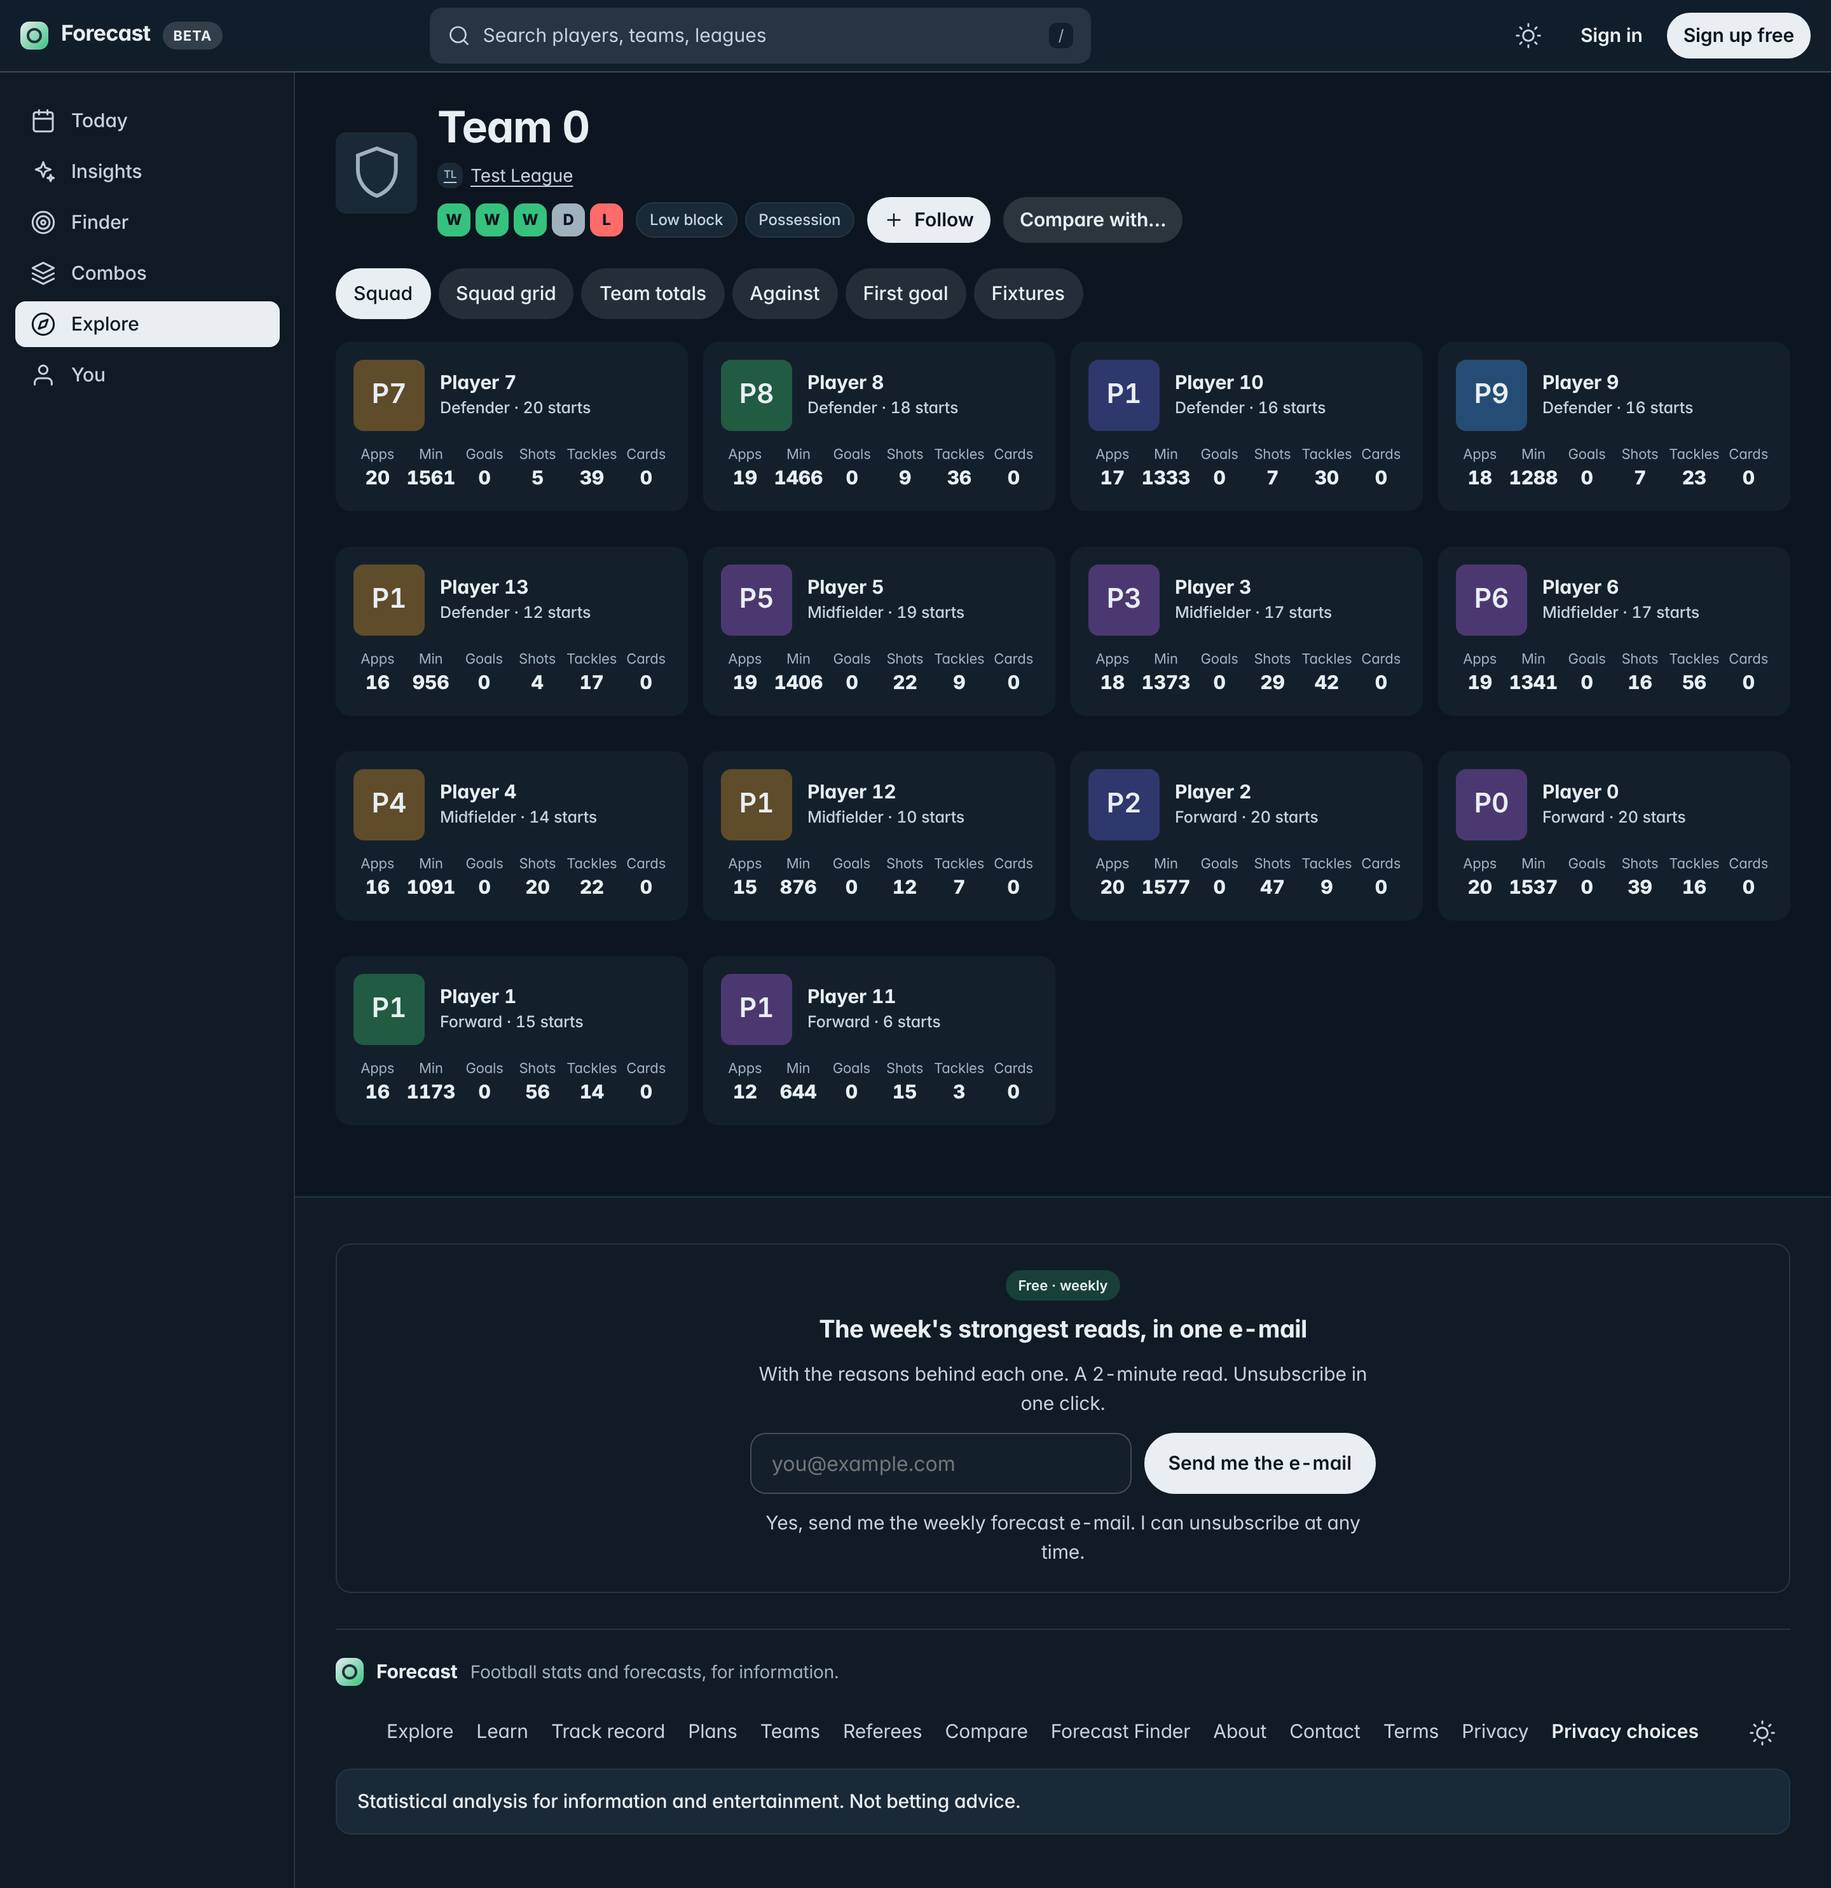
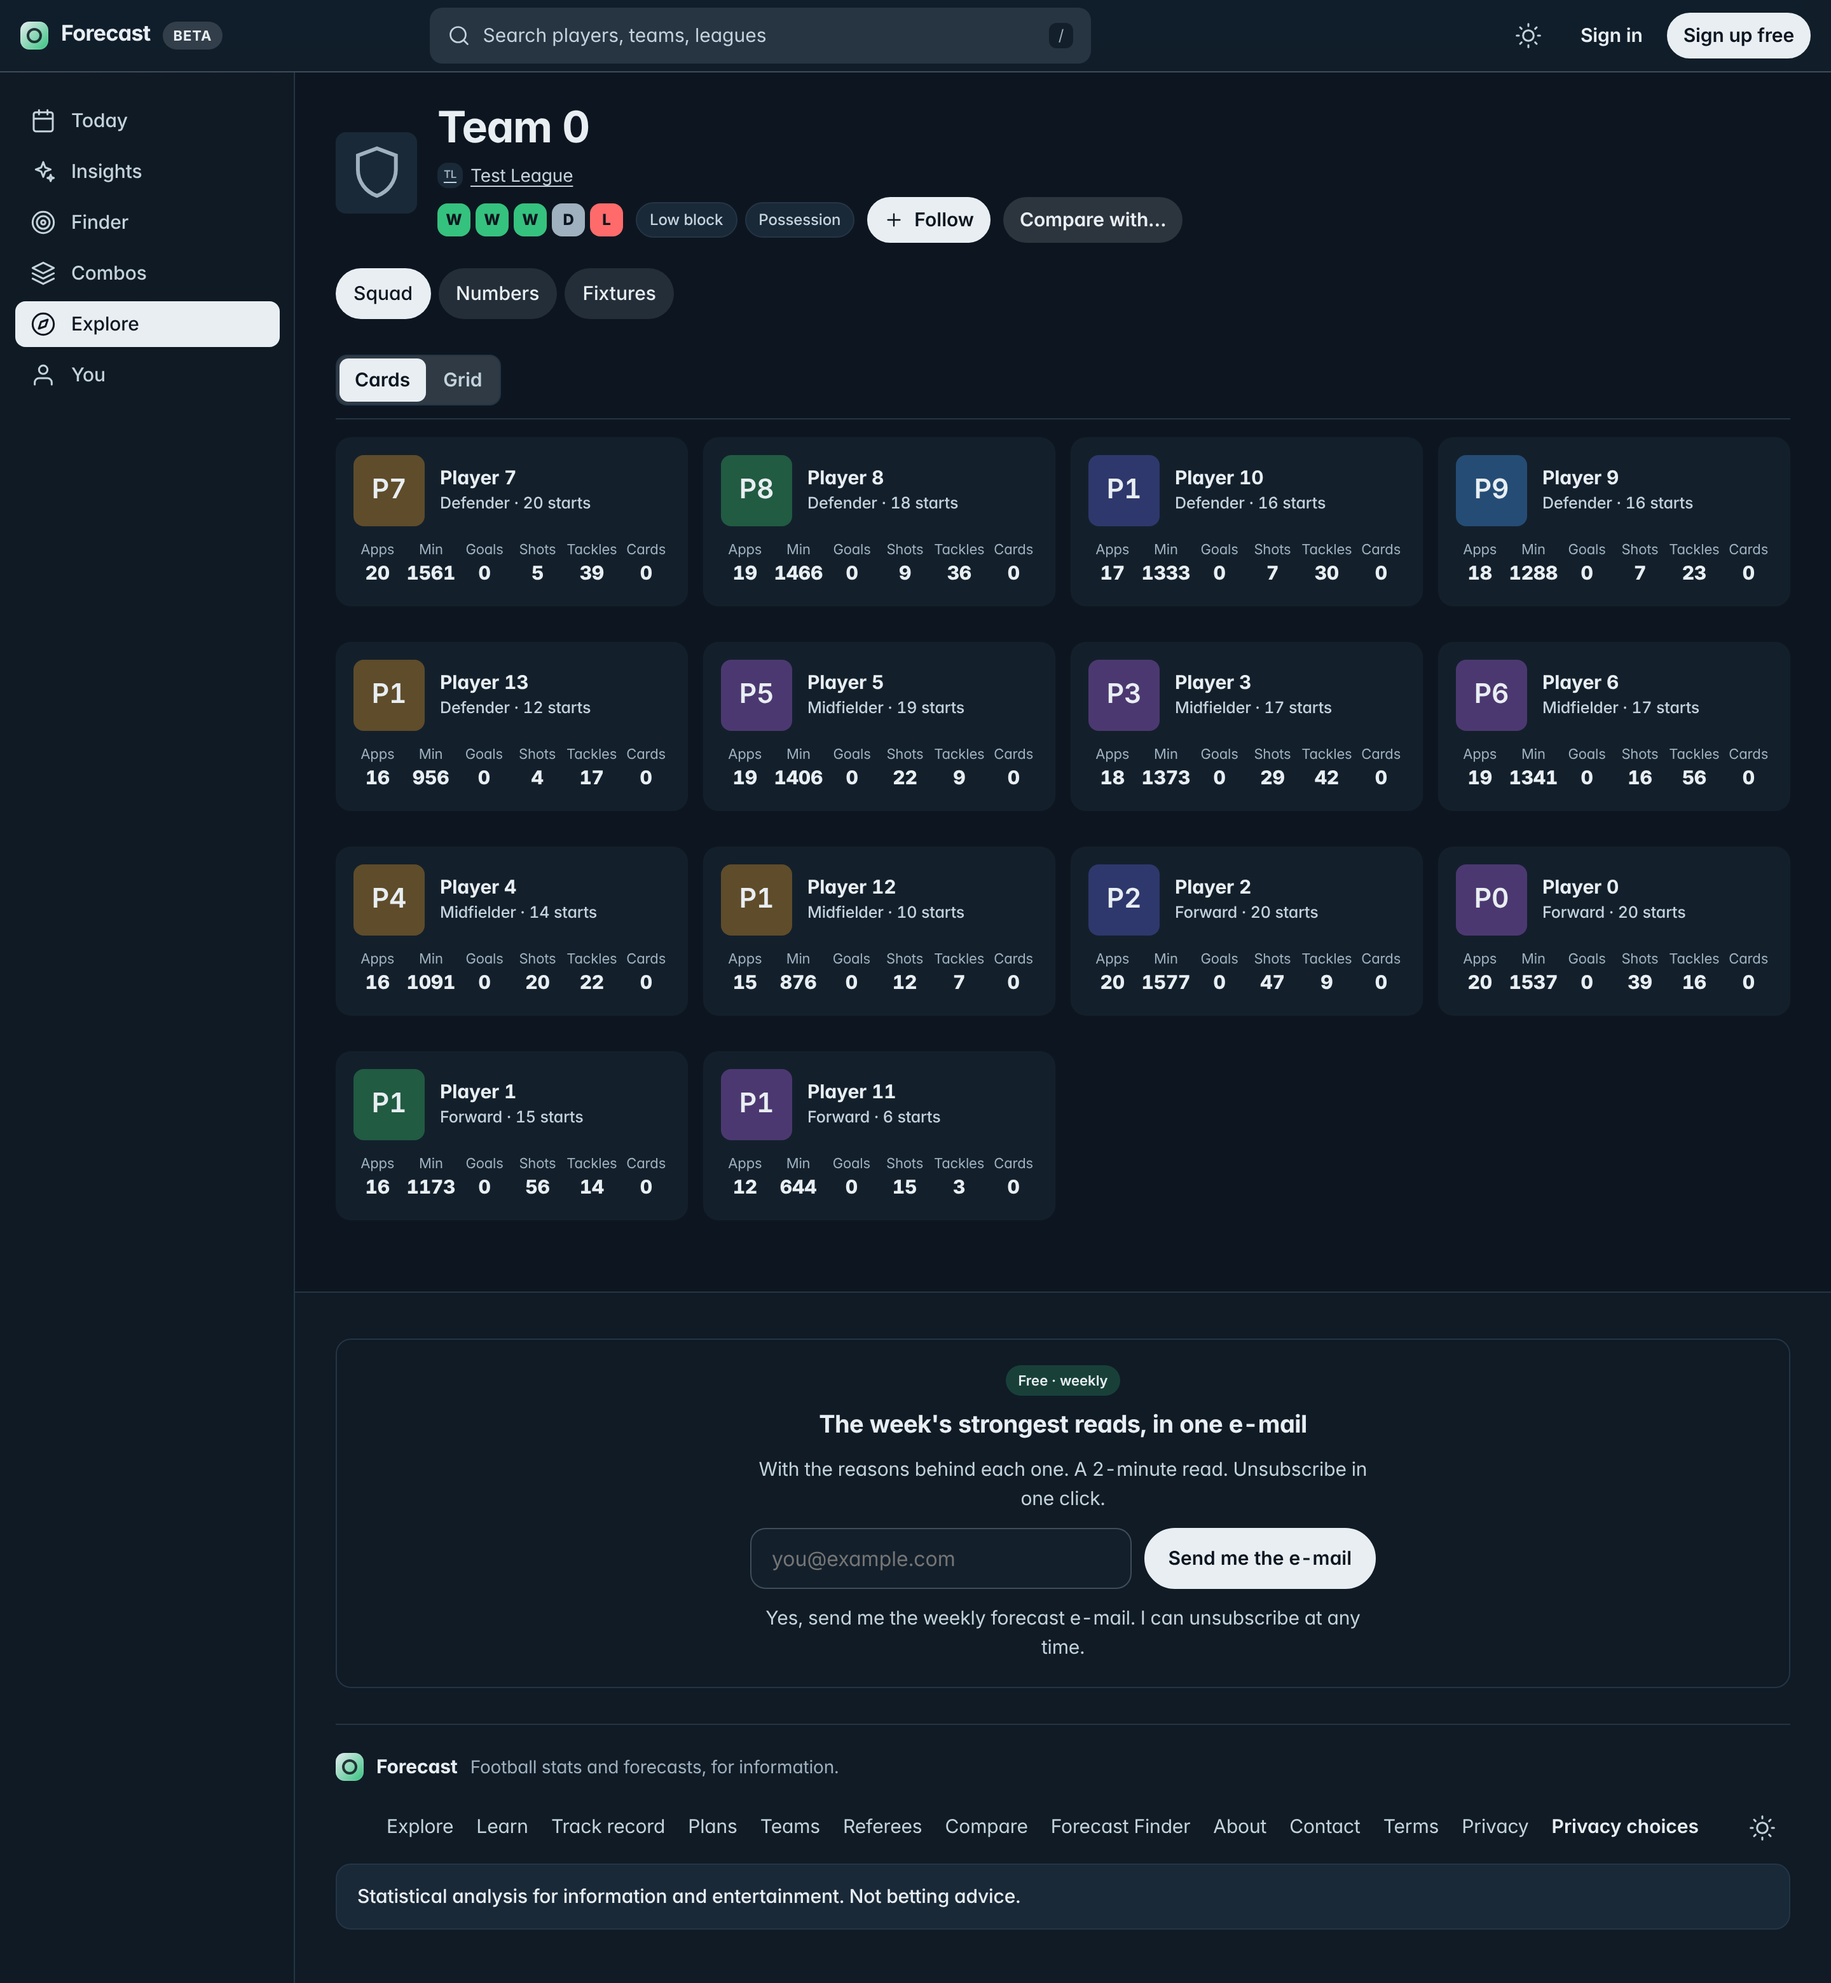
v2: the Team page's six tabs become three
Questioned rather than restyled. Reading what each tab actually rendered:

"Squad" and "Squad grid" were two renderings of the same squad -- a view toggle wearing two tabs.
They are one tab with a Cards/Grid toggle.

"Team totals", "Against" and "First goal" all answer one question: what this club's numbers look
like. Totals already shows for and against per match, so "Against" is not its counterpart -- it is
a different cut, what opponents manage by position -- and "First goal" is a single chart that never
justified a top-level tab. They become one "Numbers" tab read top to bottom: match by match, then
by the position it concedes to, then who tends to score first.

Six tabs scrolled sideways on a phone and offered a reader six choices where there were three
questions. Three do not and do.

Claude-Session: https://claude.ai/code/session_016hRGeSD52r5PfemmuLdhgZ

diff --git a/frontend/src/pages/Team.jsx b/frontend/src/pages/Team.jsx
@@ -116,6 +116,7 @@ export default function Team() {
   const { id } = useParams();
   const q = useApi(`/teams/${id}`);
   const [tab, setTab] = useState("squad");
+  const [squadView, setSquadView] = useState("cards");
   useTitle(q.data?.team?.name || "Team");
   if (q.loading && !q.data) return <Loading rows={5} />;
   if (q.error) return <ErrorBox error={q.error} onRetry={q.reload} />;
@@ -130,12 +131,28 @@ export default function Team() {
           <div className="phead-row"><FormPills form={d.form} /><div className="chips">{(d.style?.tactics || []).map((t) => <TacticChip key={t} t={t} />)}</div><FollowButton kind="team" refId={d.team.id} name={d.team.name} /><Link to={`/compare?a=${d.team.id}`} className="btn btn--secondary btn--sm" data-testid="team-compare">Compare with…</Link></div>
         </div>
       </header>
-      <Tabs value={tab} onChange={setTab} testid="team-tabs" tabs={[{ id: "squad", label: "Squad" }, { id: "grid", label: "Squad grid" }, { id: "totals", label: "Team totals" }, { id: "against", label: "Against" }, { id: "first", label: "First goal" }, { id: "fixtures", label: "Fixtures" }]} />
-      {tab === "squad" && <SquadCards id={id} />}
-      {tab === "grid" && <Grid id={id} />}
-      {tab === "totals" && <Totals id={id} />}
-      {tab === "against" && <Against id={id} />}
-      {tab === "first" && <FirstGoal team={d.team} />}
+      {/* CONSOLIDATION: six tabs became three. "Squad" and "Squad grid" were two renderings of one
+          thing -- a view toggle wearing two tabs -- so they are one tab with a toggle. "Team totals",
+          "Against" and "First goal" are all the same question, what this club's numbers look like,
+          so they are one tab read top to bottom: per match, then by the position it concedes to,
+          then who tends to score first. Six tabs scrolled sideways on a phone; three do not. */}
+      <Tabs value={tab} onChange={setTab} testid="team-tabs" tabs={[{ id: "squad", label: "Squad" }, { id: "totals", label: "Numbers" }, { id: "fixtures", label: "Fixtures" }]} />
+      {tab === "squad" && (
+        <>
+          <div className="v2-bar">
+            <Seg label="View" value={squadView} onChange={setSquadView} testid="team-squad-view"
+                       options={[{ id: "cards", label: "Cards" }, { id: "grid", label: "Grid" }]} />
+          </div>
+          {squadView === "cards" ? <SquadCards id={id} /> : <Grid id={id} />}
+        </>
+      )}
+      {tab === "totals" && (
+        <div className="v2-stack">
+          <section><h2 className="k-sec">Match by match</h2><Totals id={id} /></section>
+          <section><h2 className="k-sec">What opponents manage, by position</h2><Against id={id} /></section>
+          <section><h2 className="k-sec">Who scores first</h2><FirstGoal team={d.team} /></section>
+        </div>
+      )}
       {tab === "fixtures" && (d.next.length ? <ul className="mlist card">{d.next.map((m) => <MatchRow key={m.id} m={m} />)}</ul> : <Empty icon="calendar">No upcoming fixtures loaded.</Empty>)}
     </section>
   );

diff --git a/frontend/src/styles/v2.css b/frontend/src/styles/v2.css
@@ -637,3 +637,11 @@ h2, .k-sec, .td-sec-head h2, .ins h2, .mc-sec h2, .pr h2, .tm h2, .fg-head h3, .
 }
 .v2-say { margin: 0; flex: 1 1 32ch; max-width: 78ch; }
 .v2-say .k-link { font-size: .78em; font-weight: 500; white-space: nowrap; }
+
+/* CONSOLIDATION: a tab that holds several related blocks reads as one answer, so the blocks are
+   spaced and ruled rather than floated apart. */
+.v2-stack { display: grid; gap: 26px; }
+.v2-stack > section > .k-sec {
+  padding-bottom: 7px; margin-bottom: 11px; border-bottom: 1px solid var(--border);
+  font-size: 16px; font-stretch: 104%; font-weight: 600;
+}
